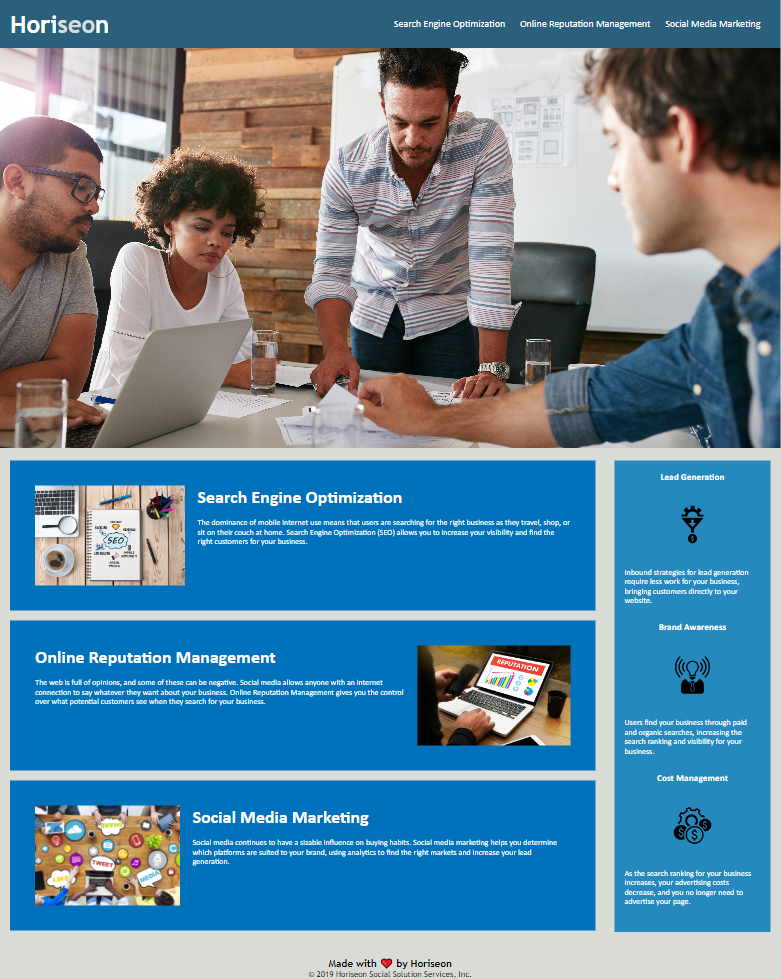
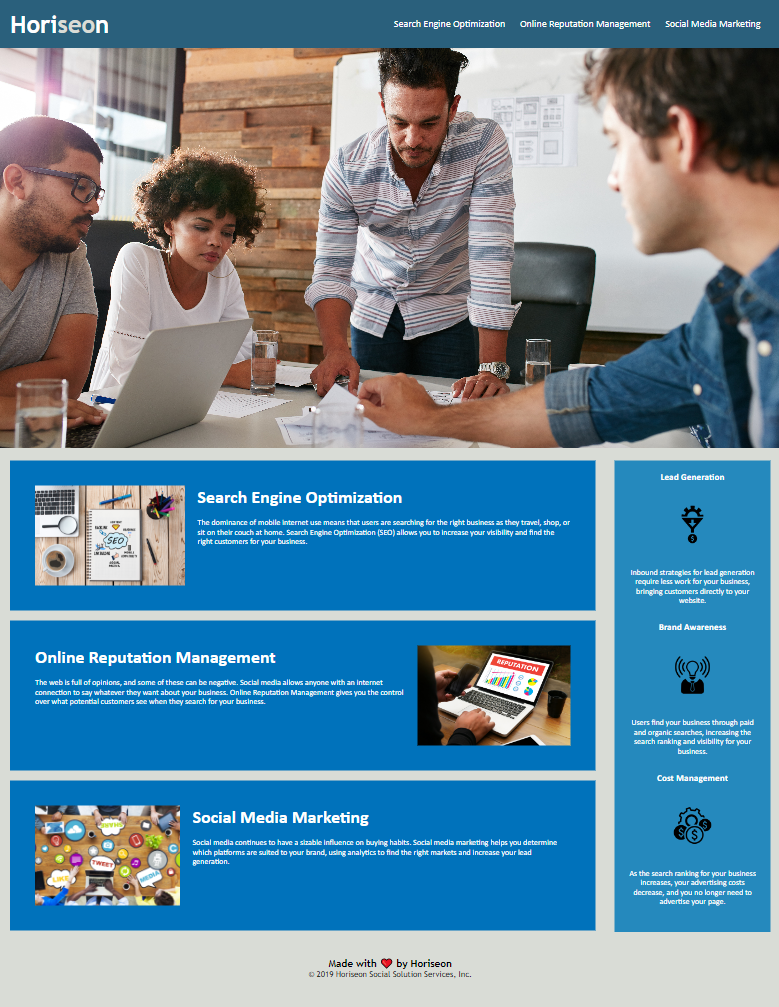
commented css, updated README

diff --git a/assets/css/style.css b/assets/css/style.css
@@ -8,6 +8,17 @@ body {
     background-color: #d9dcd6;
 }
 
+a {
+    color: #ffffff;
+    text-decoration: none;
+}
+
+p {
+    font-size: 16px;
+}
+
+/* styles Horiseon logo and organizes header */
+
 header {
     padding: 20px;
     font-family: 'Trebuchet MS', 'Lucida Sans Unicode', 'Lucida Grande', 'Lucida Sans', Arial, sans-serif;
@@ -26,7 +37,7 @@ header h1 span {
     color: #d9dcd6;
 }
 
-/* navigation links to main section elements */
+/* navigation links to page elements */
 
 header nav {
     padding-top: 15px;
@@ -45,15 +56,8 @@ header nav ul li {
     margin-left: 25px;
 }
 
-a {
-    color: #ffffff;
-    text-decoration: none;
-}
+/* hero image */
 
-p {
-    font-size: 16px;
-}
-/* background image */
 figure {
     height: 800px;
     width: 100%;
@@ -62,6 +66,8 @@ figure {
     background-size: cover;
     background-position: center;
 }
+
+/* positioning for main elements */
 
 .float-left {
     float: left;
@@ -72,6 +78,8 @@ figure {
     float: right;
     margin-left: 25px;
 }
+
+/* styles for main services info elements*/
 
 main {
     width: 75%;
@@ -97,6 +105,8 @@ main section h2 {
     font-size: 36px;  
 }
 
+/* styles for right-hand sidebar */
+
 aside {
     margin-right: 20px;
     padding: 20px;
@@ -111,6 +121,9 @@ aside {
 aside section {
     margin-bottom: 32px;
     color: #ffffff;
+    /* altered text alignment from example because I 
+       thought it looked nicer centered for the sidebar. */
+    text-align: center;
 }
 
 aside section h3 {

diff --git a/index.html b/index.html
@@ -72,7 +72,7 @@
         </section>
     </main>
 
-    <!-- sidebar on the right -->
+    <!-- right-hand sidebar -->
 
     <aside>
         <section>

diff --git a/README.md b/README.md
@@ -10,8 +10,7 @@ Clone this repo to your local host, and open the folder in the text editor of yo
 
 ## Usage
 
-This is a static informational landing page.  Links in the header can help you skip to the part of the page you are trying to view.  This is a responsive layout designed to look appropriate on desktop/laptop, tablet, or smartphone.
-
+This is a static informational landing page.  Links in the header can navigate to the section of the page you are trying to view.
 ## Link
 
 https://blchase215.github.io/Horiseon-Landing-Page/
